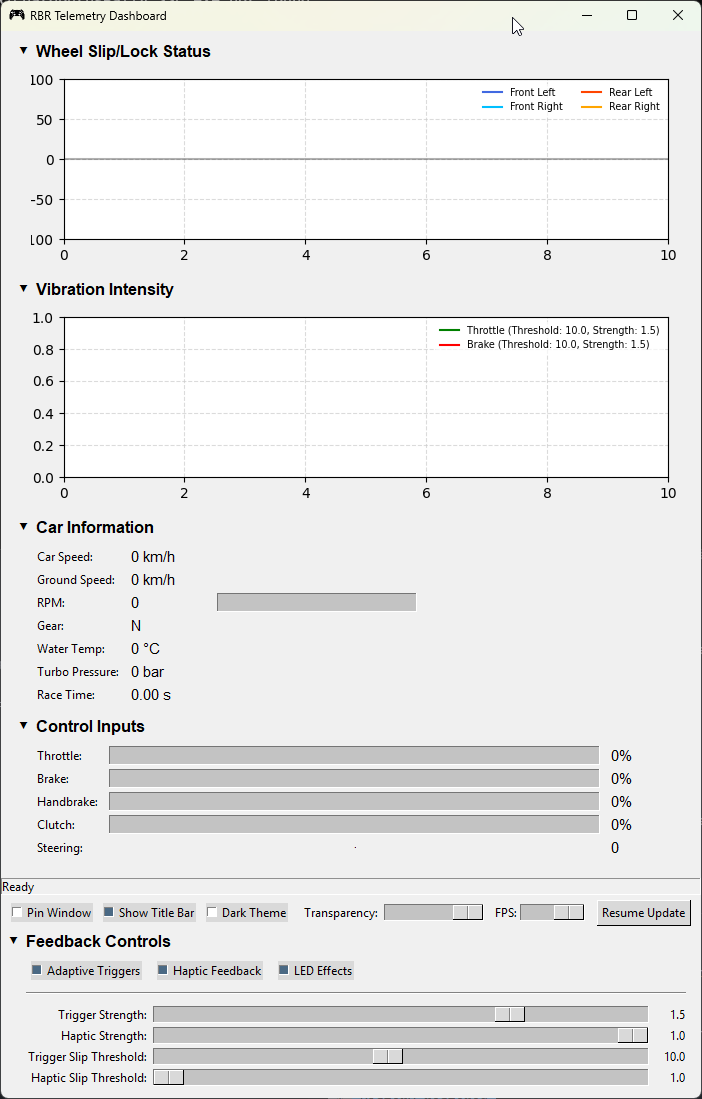
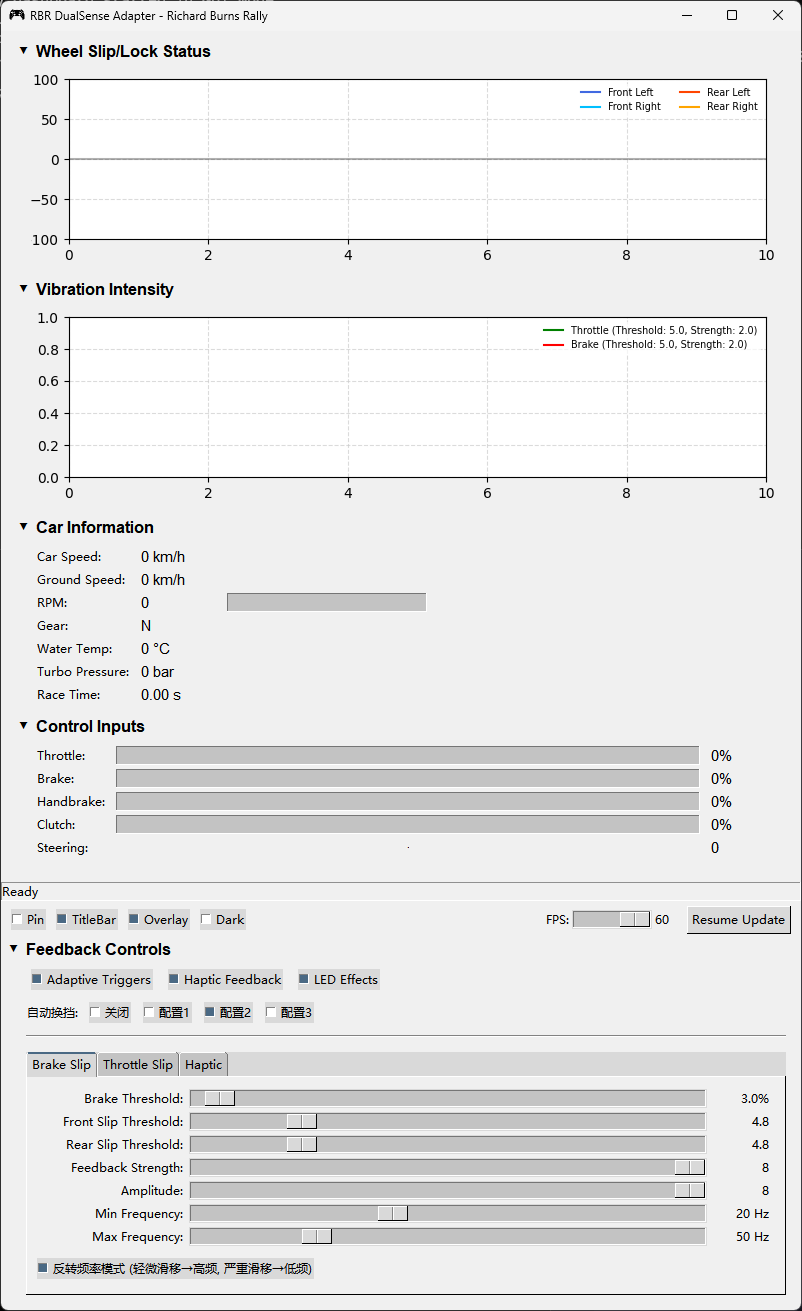
docs: 更新README文档至v1.5.5

diff --git a/Adaptive_Trigger_RBR.py b/Adaptive_Trigger_RBR.py
@@ -1,6 +1,6 @@
 """
 RBR DualSense Adapter - Richard Burns Rally 自适应扳机与 DualSense 手柄适配
-Version 1.5.3
+Version 1.5.5
 """
 import socket
 import json
@@ -12,7 +12,7 @@ import sys
 import configparser
 import psutil  # Add this import for process handling
 
-__version__ = '1.5.4'
+__version__ = '1.5.5'
 
 # pydirectinput for game key simulation; keyboard for global hotkey (preset switch)
 try:
@@ -567,13 +567,7 @@ class TelemetryOverlay:
         # Save configuration callback
         self.save_callback = None
         
-    def set_opacity(self, opacity):
-        """Set overlay background opacity (0.0-1.0)"""
-        self.bg_opacity = float(opacity)
-        if self.window:
-            self.window.attributes('-alpha', self.bg_opacity)
-        self.redraw()
-        
+
     def create_window(self):
         """Create overlay window"""
         if self.window:
@@ -786,13 +780,6 @@ class TelemetryDashboard:
             self.overlay = TelemetryOverlay()
             # Load floating window position from configuration
             self.overlay.load_position(config)
-            # Load opacity setting from configuration
-            if 'UI' in config and 'overlay_opacity' in config['UI']:
-                try:
-                    opacity = float(config['UI']['overlay_opacity'])
-                    self.overlay.bg_opacity = opacity
-                except (ValueError, TypeError):
-                    pass  # Use default opacity if invalid value in config
             # Set callback function to save configuration
             self.overlay.save_callback = self.save_config
             
@@ -1089,20 +1076,6 @@ class TelemetryDashboard:
             style='Theme.TCheckbutton'
         )
         theme_cb.pack(side=tk.LEFT, padx=5)
-        
-        # Overlay opacity control
-        ttk.Label(self.control_panel, text="Opacity:", style='Theme.TLabel').pack(side=tk.LEFT, padx=(10, 0))
-        self.opacity_scale = ttk.Scale(
-            self.control_panel, 
-            from_=0.1, 
-            to=1.0, 
-            orient=tk.HORIZONTAL, 
-            length=100,
-            value=0.7,
-            command=self.change_opacity,
-            style='Theme.Horizontal.TScale'
-        )
-        self.opacity_scale.pack(side=tk.LEFT, padx=5)
         
         # Create feedback control panel
         self.feedback_frame, content = self.create_collapsible_frame(
@@ -1583,16 +1556,7 @@ class TelemetryDashboard:
         # Save configuration
         self.save_config()
     
-    def change_opacity(self, value):
-        """Change overlay background opacity"""
-        if hasattr(self, 'overlay') and self.overlay is not None:
-            self.overlay.set_opacity(float(value))
-            # Save opacity setting to config
-            if 'UI' not in config:
-                config['UI'] = {}
-            config['UI']['overlay_opacity'] = str(value)
-            self.save_config()
-    
+
     def toggle_theme(self):
         """切换深色/浅色主题"""
         theme = 'dark' if self.is_dark_theme.get() else 'light'

diff --git a/README.md b/README.md
@@ -8,17 +8,32 @@ A Python application that provides DualSense (PS5) controller feedback for Richa
 
 ### Real-time Feedback
 - **Adaptive Triggers**: Dynamic resistance based on wheel slip, lock, and vehicle behavior
-  - Left Trigger (Brake): Provides feedback for front wheel lock
-  - Right Trigger (Throttle): Simulates wheel spin and traction loss
+  - Left Trigger (Brake): Provides feedback for front wheel lock with configurable strength and frequency
+  - Right Trigger (Throttle): Simulates wheel spin and traction loss with adjustable parameters
+  - Separate threshold controls for front and rear wheel slip detection
+  - Customizable feedback strength, amplitude, and frequency ranges
 - **Haptic Feedback**: Tactile response for traction loss and surface changes
+  - Adjustable intensity based on slip severity
+  - Independent brake and throttle slip detection
 - **Dynamic LED**: Color changes based on RPM ranges (green → yellow → red)
+
+### Automatic Gear Shifting
+- **Intelligent Gear Management**: Automatic gear shifting based on RPM and vehicle speed
+  - Three preset configurations (Rally1, Rally2, Rally3) for different car types
+  - Customizable shift points for each gear (supports 5/6/7-speed transmissions)
+  - Independent upshift and downshift cooldown timers
+  - Hot-swap presets with configurable hotkey (default: F9)
+  - Optional debug mode for tuning shift points
+  - Game window focus detection for safe keyboard input
 
 ### Telemetry Dashboard
 - Real-time vehicle data visualization
 - Wheel slip/lock status graphs
 - Vibration intensity monitoring
 - Control input display
+- Automatic gear shift status indicator
 - Customizable UI with dark/light themes
+- In-game overlay support (optional)
 
 ## Requirements
 
@@ -35,9 +50,13 @@ A Python application that provides DualSense (PS5) controller feedback for Richa
    ```bash
    pip install -r requirements.txt
    ```
-3. Ensure DSX is running and your DualSense controller is connected
-4. Launch Richard Burns Rally
-5. Run the script:
+3. (Optional) Install additional dependencies for automatic gear shift and overlay features:
+   ```bash
+   pip install pydirectinput keyboard pywin32
+   ```
+4. Ensure DSX is running and your DualSense controller is connected
+5. Launch Richard Burns Rally
+6. Run the script:
    ```bash
    python Adaptive_Trigger_RBR.py
    ```
@@ -49,20 +68,70 @@ The application uses a `config.ini` file for customization:
 ### Features
 ```ini
 [Features]
-adaptive_trigger = True
-led_effect = True
-haptic_effect = True
-print_telemetry = True
-use_gui_dashboard = True
+adaptive_trigger = True    # Enable adaptive trigger feedback
+led_effect = True          # Enable LED color effects
+haptic_effect = True       # Enable haptic feedback
+print_telemetry = True     # Print telemetry data to console
+use_gui_dashboard = True   # Show GUI dashboard
 ```
 
-### Feedback Settings
+### Feedback Settings (Legacy)
 ```ini
 [Feedback]
-trigger_strength = 1.0      # Adaptive trigger strength (0.1-2.0)
-haptic_strength = 1.0       # Haptic feedback intensity (0-1.0)
-wheel_slip_threshold = 10.0 # Wheel slip detection sensitivity (1.0-20.0)
-trigger_threshold = 1.0     # Haptic trigger threshold (1.0-20.0)
+trigger_strength = 2.0      # Legacy parameter (0.1-2.0)
+haptic_strength = 1.0       # Haptic feedback intensity (0.0-1.0)
+wheel_slip_threshold = 5.0  # Wheel slip detection sensitivity (5.0-30.0)
+```
+
+### Brake Slip Settings
+```ini
+[BrakeSlip]
+brake_threshold = 3.0           # Brake input threshold (0.1-99.0)
+front_slip_threshold = 5.0      # Front wheel slip threshold (1.0-20.0)
+rear_slip_threshold = 5.0       # Rear wheel slip threshold (1.0-20.0)
+feedback_strength = 7           # Feedback strength intensity (1-10)
+amplitude = 5                   # Vibration amplitude (1-10)
+min_frequency = 25              # Minimum frequency (1-255)
+max_frequency = 85              # Maximum frequency (1-255)
+reverse_frequency_mode = False  # Reverse frequency scaling
+```
+
+### Throttle Slip Settings
+```ini
+[ThrottleSlip]
+throttle_threshold = 3.0        # Throttle input threshold (0.1-99.0)
+front_slip_threshold = 5.0      # Front wheel slip threshold (1.0-20.0)
+rear_slip_threshold = 5.0       # Rear wheel slip threshold (1.0-20.0)
+feedback_strength = 8           # Feedback strength intensity (1-10)
+amplitude = 4                   # Vibration amplitude (1-10)
+min_frequency = 30              # Minimum frequency (1-255)
+max_frequency = 96              # Maximum frequency (1-255)
+reverse_frequency_mode = False  # Reverse frequency scaling
+```
+
+### Automatic Gear Shift Settings
+```ini
+[GearShift]
+auto_gear_shift = False         # Enable automatic gear shifting
+gear_up_key = e                 # Key for upshift
+gear_down_key = q               # Key for downshift
+shift_up_cooldown = 1.0         # Upshift delay (0.1-1.0 seconds)
+shift_down_cooldown = 0.5       # Downshift delay (0.1-1.0 seconds)
+active_preset = 2               # Active preset (1=Rally1, 2=Rally2, 3=Rally3)
+preset_switch_key = F9          # Key to switch between presets
+gear_shift_debug = False        # Enable debug output
+
+[GearShift_Rally1]
+shift_up_rpm = 8000,7800,6900,6800,6800,6800      # RPM for upshifts (1→2, 2→3, 3→4, 4→5, 5→6, 6→7)
+shift_down_rpm = 3000,3500,4500,4500,5000,5000    # RPM for downshifts (2→1, 3→2, 4→3, 5→4, 6→5, 7→6)
+
+[GearShift_Rally2]
+shift_up_rpm = 6800,6500,6300,6000,5800,5500
+shift_down_rpm = 2500,2800,3500,4000,4000,4300
+
+[GearShift_Rally3]
+shift_up_rpm = 9500,9400,9400,9400,9400,9400
+shift_down_rpm = 6000,6300,6500,6800,7000,7000
 ```
 
 ### GUI Settings
@@ -70,6 +139,13 @@ trigger_threshold = 1.0     # Haptic trigger threshold (1.0-20.0)
 [GUI]
 fps = 60.0                 # Dashboard update rate (10-60 FPS)
 pause_updates = False      # Pause dashboard updates
+language = en              # Interface language (en/zh)
+```
+
+### UI Overlay Settings
+```ini
+[UI]
+show_overlay = False       # Show in-game overlay
 ```
 
 ### Network Settings
@@ -90,11 +166,39 @@ udp_port = 6776           # UDP port for telemetry data
 ## Feature Details
 
 ### Adaptive Triggers
-- Provides resistance based on:
-  - Wheel slip during acceleration
-  - Brake lock-up
-  - Handbrake usage
-  - Vehicle speed and behavior
+- **Brake Trigger (Left)**: 
+  - Dynamic resistance based on front wheel lock
+  - Separate threshold for front and rear wheels
+  - Customizable feedback strength and amplitude
+  - Adjustable frequency range for different feel
+  - Optional reverse frequency mode
+  
+- **Throttle Trigger (Right)**:
+  - Resistance based on wheel spin during acceleration
+  - Independent slip detection for front and rear wheels
+  - Fine-tuned feedback parameters
+  - Speed-sensitive behavior
+  - Handbrake integration
+
+### Automatic Gear Shifting
+- **How it works**:
+  - Monitors engine RPM and current gear
+  - Automatically shifts up when reaching optimal RPM
+  - Downshifts when RPM drops below minimum threshold
+  - Respects cooldown timers to prevent rapid shifting
+  - Only operates when game window is focused
+  
+- **Three Rally Presets**:
+  - **Rally1**: High-RPM aggressive shifting (8000-9500 RPM upshifts)
+  - **Rally2**: Balanced mid-range performance (6000-6800 RPM upshifts) 
+  - **Rally3**: Ultra-high-RPM racing (9400-9500 RPM upshifts)
+  
+- **Customization**:
+  - Each preset has 6 shift points (supports 5/6/7-speed cars)
+  - Independent upshift and downshift RPM values
+  - Adjustable cooldown timers prevent premature shifting
+  - Press F9 (default) to cycle between presets during gameplay
+  - Debug mode shows shift decisions in console
 
 ### LED Effects
 - **Green** (< 60% max RPM): Normal operation
@@ -102,27 +206,46 @@ udp_port = 6776           # UDP port for telemetry data
 - **Red** (> 80% max RPM): Redline warning
 
 ### Haptic Feedback
-- Wheel slip/spin detection
-- Traction loss feedback
-- Intensity varies with severity
-- Configurable thresholds and strength
+- Wheel slip/spin detection with separate brake and throttle thresholds
+- Traction loss feedback with adjustable intensity
+- Frequency-based vibration (configurable min/max range)
+- Amplitude control for different severity levels
+- Configurable thresholds and strength for each trigger
 
 ## Troubleshooting
 
 1. **No Controller Feedback**
    - Ensure DSX is running
    - Check controller connection
-   - Verify UDP port settings
+   - Verify UDP port settings (default: 6776)
+   - Check if `adaptive_trigger` is enabled in config
 
 2. **Game Not Detected**
    - Run the script as administrator
    - Verify RBR is running
-   - Check process name matches
+   - Check process name matches (RichardBurnsRally_SSE.exe)
 
-3. **Performance Issues**
-   - Reduce dashboard FPS
-   - Disable unused features
+3. **Automatic Gear Shift Not Working**
+   - Install optional dependencies: `pip install pydirectinput keyboard pywin32`
+   - Enable `auto_gear_shift` in config.ini
+   - Ensure game window has focus
+   - Verify gear shift keys match your game controls
+   - Check if shift cooldown timers are too long
+   - Enable `gear_shift_debug` to see shift events in console
+
+4. **Performance Issues**
+   - Reduce dashboard FPS in GUI settings
+   - Disable unused features (LED, haptic, adaptive triggers)
+   - Lower feedback strength and frequency parameters
    - Check system resources
+   - Disable in-game overlay if not needed
+
+5. **Feedback Too Weak/Strong**
+   - Adjust `feedback_strength` in BrakeSlip/ThrottleSlip sections
+   - Modify `amplitude` values (1-10 range)
+   - Change frequency ranges (min_frequency, max_frequency)
+   - Try `reverse_frequency_mode` for different feel
+   - Adjust slip thresholds to trigger earlier/later
 
 ## Contributing
 
